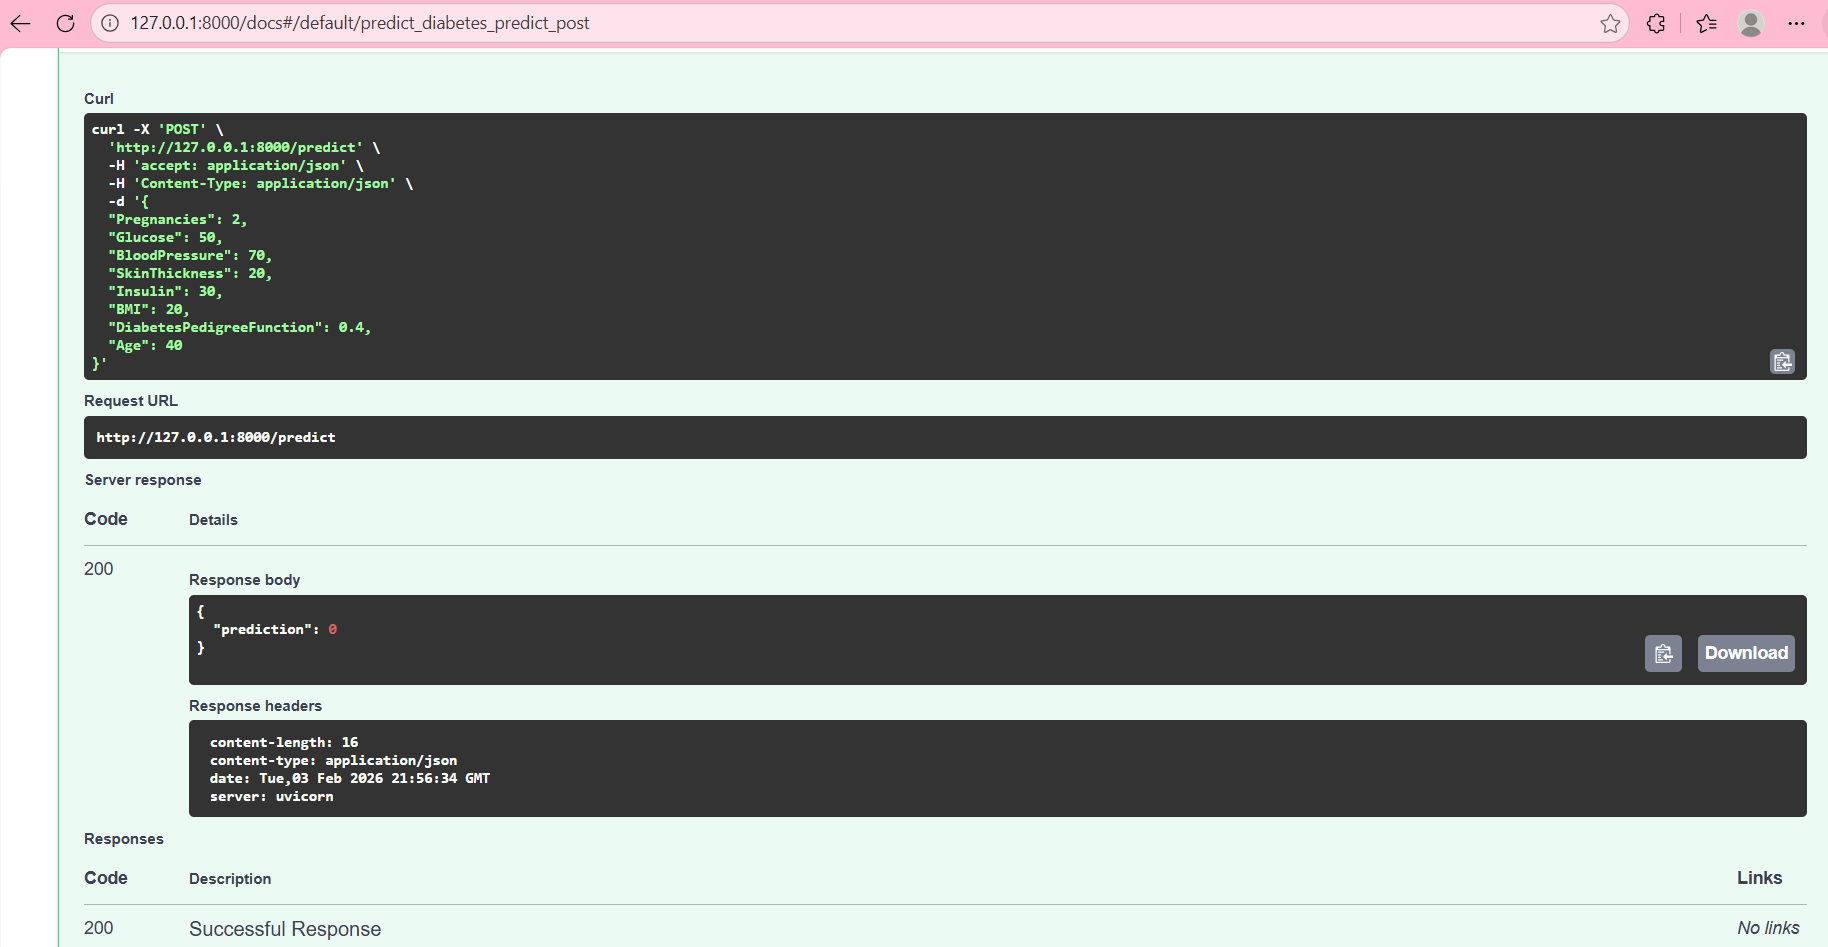
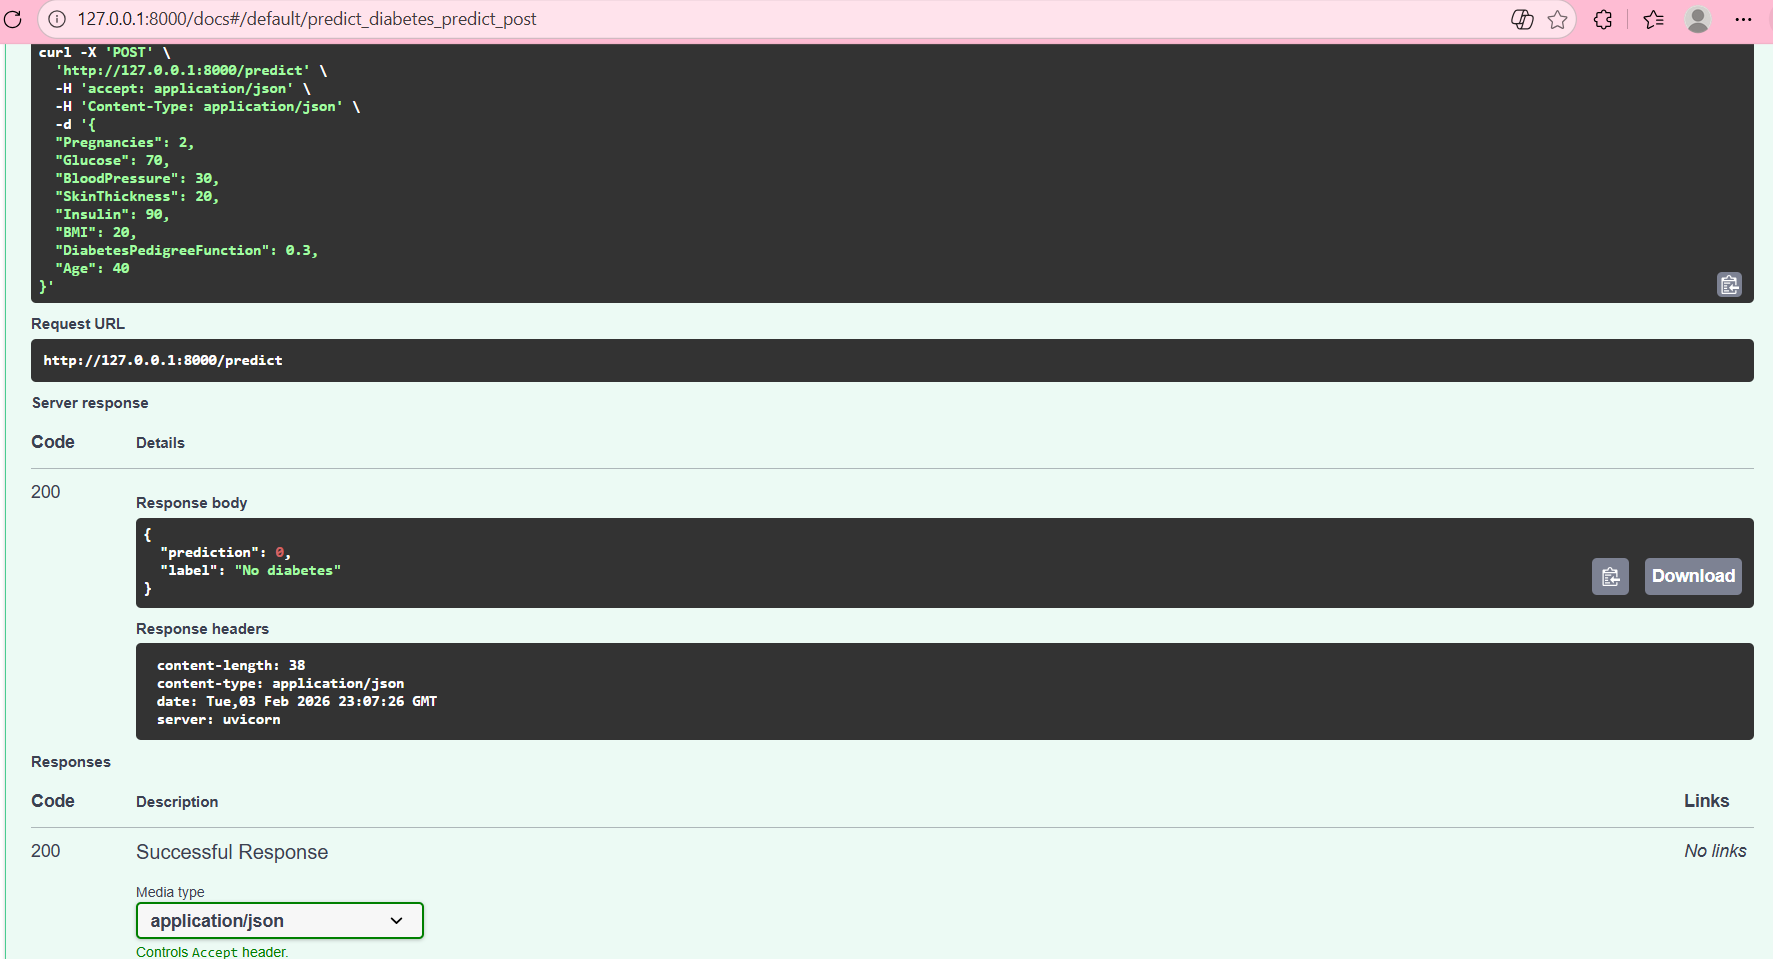
Updated the api output

diff --git a/src/api.py b/src/api.py
@@ -20,4 +20,8 @@ class InputData(BaseModel):
 def predict_diabetes(data: InputData):
     input_dict = data.dict()
     result = predict(model, input_dict)
-    return {"prediction": result}
+
+    label = "No diabetes" if result == 0 else "Diabetes"
+
+    return {"prediction": result
+            , "label": label}
